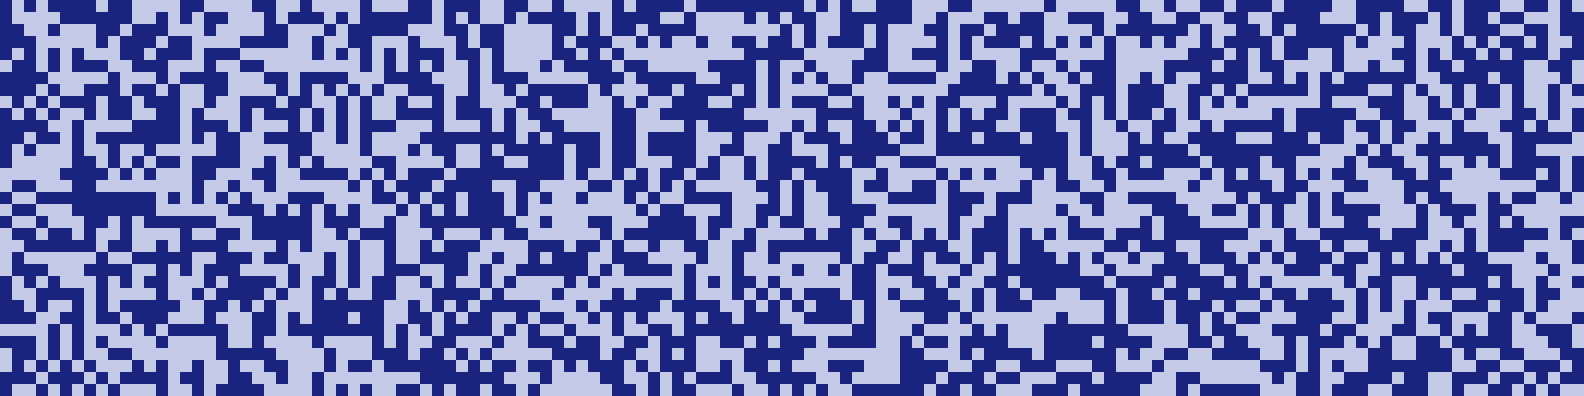
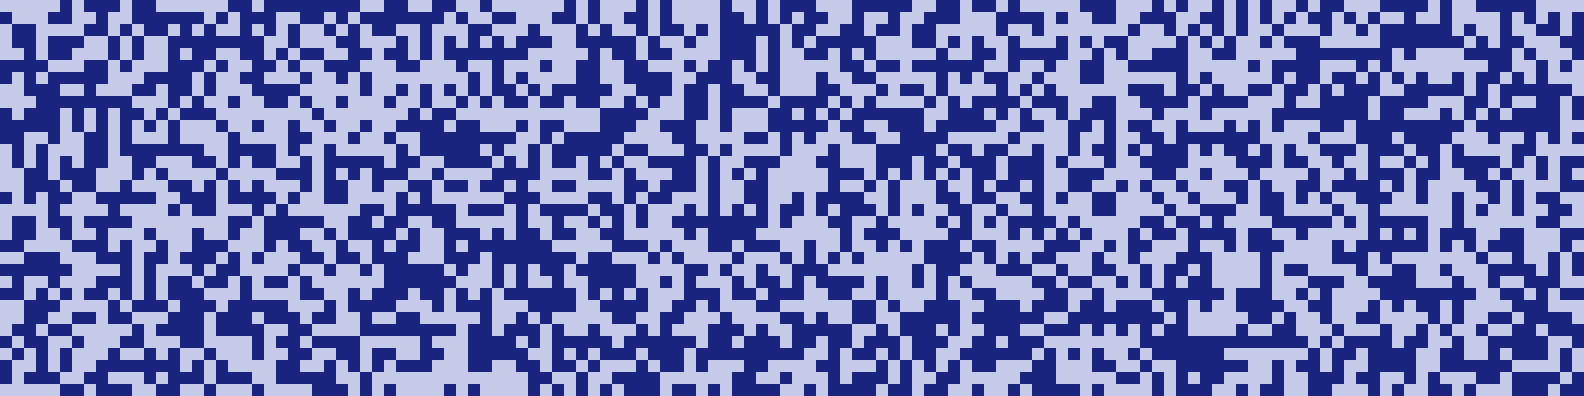
curved parabola towards viewer.

diff --git a/draw_random.py b/draw_random.py
@@ -122,6 +122,82 @@ def HardwareLinkedInBackground(
     print("{0:.3f} seconds for linkedIn image function".format(end - start))
 
 
+def LinkedInCurvedBackground(
+    color1Tuple, color2Tuple, imgPixelWidth=1584, imgPixelHeight=396, pValue=-2
+):
+    # pValue is negative to curve towards the viewer.  Smaller numbers are steeper curve (Try -1 to -4 or so)
+    # for a parabola:  x = math.sqrt(y * pValue * 4)
+    # slope at x: is slope at dy/dx = x/2pValue
+    # width of tile when slope is positive: slope = tangent (theta), theta = arctan(s), adjacent = hypotenuse * cos (theta)
+    # width of tile when slope is negative: slope = abs(tangent (theta)), theta = arctan(s), adjacent = hypotenuse * sin (theta)
+    # Create a new image
+    width = imgPixelWidth  # 1800
+    height = imgPixelHeight  # 1600
+
+    squaresize = 9  # the size of each square, 1 pixel is too small for most uses
+    im = Image.new(
+        "RGB",
+        (width, height),
+        color=color1Tuple,  # color1 is the initial color, some might say background
+    )  # color=(197, 220, 233))
+    rdObj = rd_functions_p.RdFunctions()
+    bigs = []
+    start = time.time()
+    for i in range(
+        math.ceil((width * height) / 64)
+    ):  # the maximum number of squares we can draw, which can vary with varying tile size. #FIX THIS
+        bigs.append(rdObj.RdRand64_Retry())
+    # rdObj.RdRand64_Retry(3)
+    mybits = get64BitsGenerator(bigs)
+    # Draw random white pixels
+    draw = ImageDraw.Draw(im)
+    drawnwidth = 0
+    # we need to draw pixels starting with 0, 0 in top right corner.
+    imageTopCursor = 0  # start at top
+
+    for y in range(
+        0, height, squaresize
+    ):  # start at top of image, and draw a row, then move next row in y and draw row
+        # for y in range(0, width):
+        leftside = (
+            -1 * width // 2
+        )  # start at left end of curve, this is the left side of the tile
+        imageLeftCursor = leftside + width // 2
+        for x in range(0, width, squaresize):
+            # for each bit in bigs, if the bit is 1, draw a pixel
+            pixel = (next(mybits)) & 1
+
+            # get width of square based what we see due to the curvature
+            # for a parabola:  x = math.sqrt(y * pValue * 4)
+            # point = (leftside, math.sqrt(leftside * pValue * 4))
+            # slope at x = x/2pValue
+            slope = leftside / (2 * pValue)
+            slopePercent = slope / 100
+            if slope >= 0:
+                # width of tile when slope is positive: slope = tangent (theta), theta = arctan(s), adjacent = hypotenuse * cos (theta)
+                theta = math.atan(slopePercent)
+                adjacent = int(squaresize * math.cos(theta))
+            if slope < 0:
+                theta = math.atan(abs(slopePercent))
+                adjacent = int(squaresize * math.cos(theta))
+            if pixel:
+                for x1 in range(
+                    imageLeftCursor,
+                    imageLeftCursor + adjacent,
+                ):
+                    for y1 in range(y, y + squaresize):
+                        draw.point(
+                            (x1, y1), color2Tuple  # color2 is the foreground color
+                        )  # 197,202,233 is the light blue used on the resume site.
+            leftside = leftside + squaresize
+            imageLeftCursor = imageLeftCursor + squaresize
+
+    end = time.time()
+    # Save the image to a file
+    im.save("random_image_linkedInCurved.png")
+    print("{0:.3f} seconds for linkedIn curved image function".format(end - start))
+
+
 def get64BitsGenerator(bigs):
     while bigs:
         num = bigs.pop(0)
@@ -142,7 +218,9 @@ def testGenerator():
 
 
 if __name__ == "__main__":
+    # testGenerator()
     # InternalPythonFunction()
     # HardwarePythonFunction()
     # HardwareBlogBackground()
-    HardwareLinkedInBackground((26, 35, 126), (197, 202, 233), 1584, 396)
+    # HardwareLinkedInBackground((26, 35, 126), (197, 202, 233), 1584, 396)
+    LinkedInCurvedBackground((26, 35, 126), (197, 202, 233), 1584, 396)
